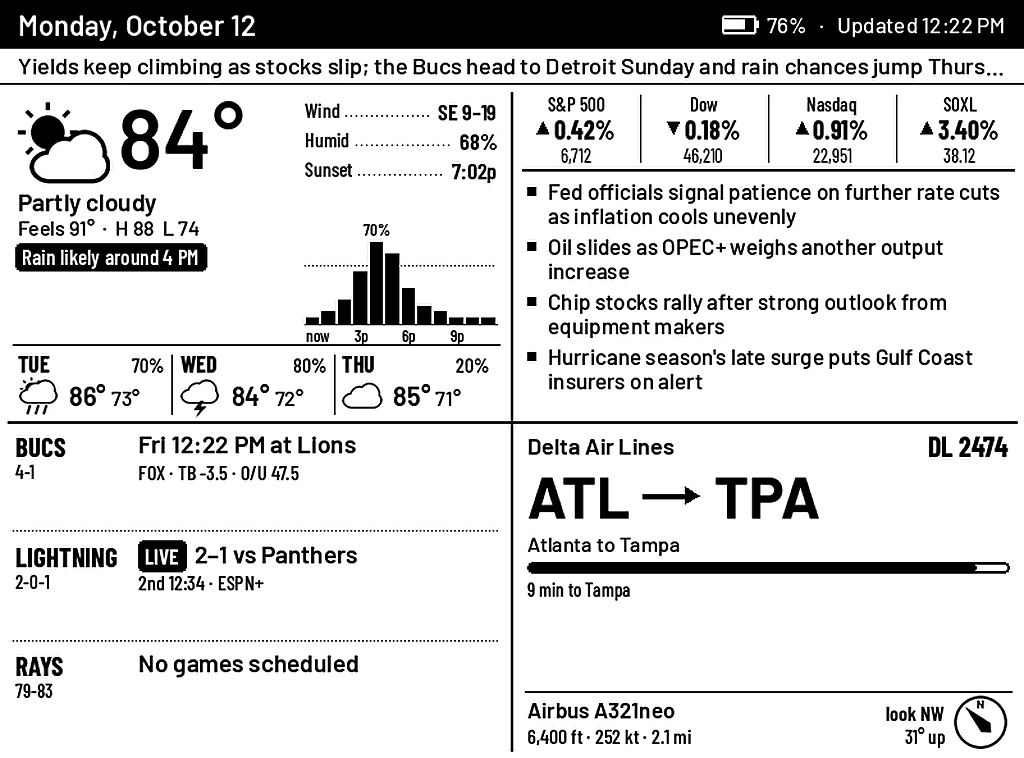
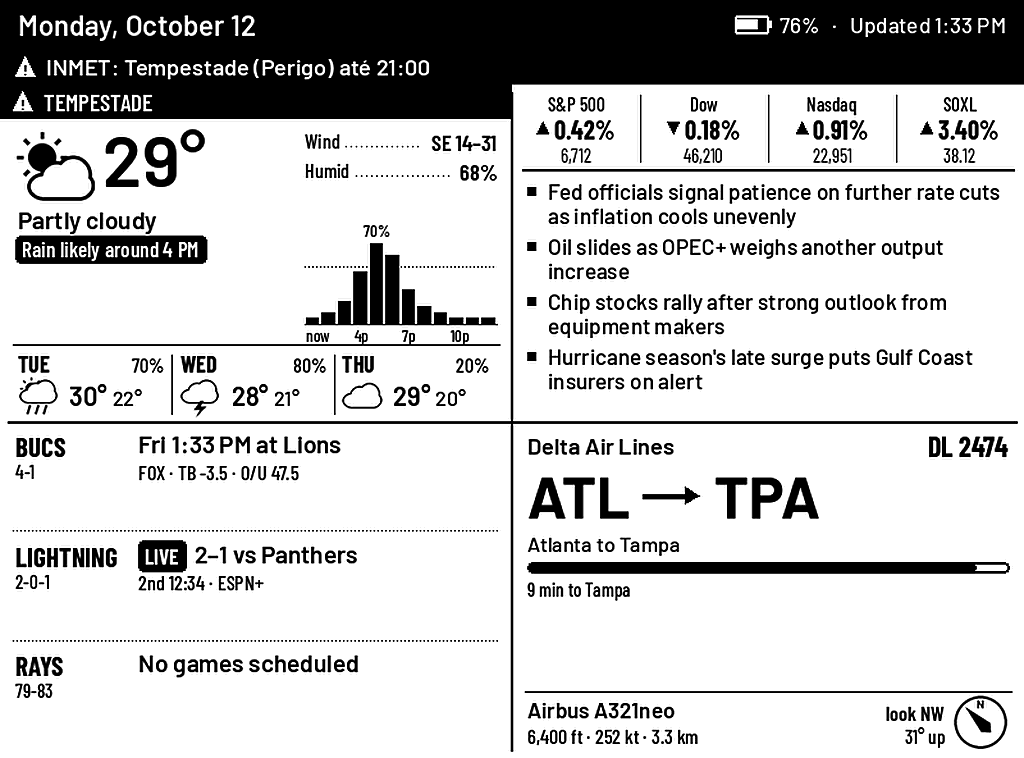
Celsius by default and INMET weather alerts for Brazil
- Units default to °C; metric also switches Open-Meteo's wind to km/h, the
  gust threshold to 13 km/h and the plane distance to km.
- Alerts: new "alerts" setting (auto | inmet | nws | off). auto picks NWS
  inside the US and INMET inside Brazil. The INMET parser reads
  /avisos/ativos ({hoje, futuro}), keeps alerts whose polygon covers the
  configured point (or whose geocodes include the optional IBGE code), drops
  expired ones and future ones more than 6 h out, and maps Grande Perigo /
  Perigo / Perigo Potencial to Extreme / Severe / Moderate.
- TZ defaults to America/Sao_Paulo; NYSE open/closed now uses New York time
  explicitly instead of assuming the server runs on it.
- Changing units or alert settings refetches the weather right away.
- Forecast stays on Open-Meteo: it is worldwide and keyless. Yahoo's
  weather API needs OAuth credentials.

Claude-Session: https://claude.ai/code/session_01GVZJyjXu3HFDda6DCF8SeA

diff --git a/server/web/dashboard.html b/server/web/dashboard.html
@@ -126,11 +126,14 @@ td:first-child{font-weight:600;white-space:nowrap}
       <div class="grid2">
         <label>Label<input name="label"></label>
         <label>City (for the brief)<input name="city"></label>
-        <label>Units<select name="units"><option value="F">°F</option><option value="C">°C</option></select></label>
+        <label>Units<select name="units"><option value="C">°C, km/h</option><option value="F">°F, mph</option></select></label>
+        <label>Weather alerts<select name="alerts"><option value="auto">Auto (by location)</option>
+          <option value="inmet">INMET (Brazil)</option><option value="nws">NWS (US)</option><option value="off">Off</option></select></label>
+        <label>IBGE city code (optional)<input name="alert_geocode" placeholder="3550308"></label>
         <label>Latitude<input name="lat" type="number" step="0.0001"></label>
         <label>Longitude<input name="lon" type="number" step="0.0001"></label>
       </div>
-      <p class="note">Location also moves the plane radar and ISS/launch visibility.</p>
+      <p class="note">Location also moves the plane radar and ISS/launch visibility. Forecast: Open-Meteo (worldwide). Alerts: INMET inside Brazil, NWS inside the US; the IBGE code only matters if an INMET alert comes without a map area.</p>
     </section>
 
     <section class="card">
@@ -311,7 +314,7 @@ function render() {
   const rows = [];
   const src = S.sources;
   const st = (o) => o ? (o.error ? `<span style="color:var(--bad)">${o.error}</span> (last ok ${ago(o.age_s)})` : `ok · ${ago(o.age_s)}`) : '—';
-  rows.push(['Weather', st(src.weather)], ['NWS alerts', st(src.alerts)], ['Quotes', st(src.quotes)]);
+  rows.push(['Weather', st(src.weather)], ['Alerts (' + (S.cfg.alerts || 'auto') + ')', st(src.alerts)], ['Quotes', st(src.quotes)]);
   for (const [k, v] of Object.entries(src.news)) rows.push(['WSJ ' + (S.feeds[k] || k), st(v)]);
   for (const [k, v] of Object.entries(src.sports)) rows.push([S.teams[k] || k, st(v)]);
   rows.push(['Plane feed', st(src.sky)], ['Claude brief', st(src.brief)]);

diff --git a/server/sources.py b/server/sources.py
@@ -109,6 +109,7 @@ class Weather:
 
 
 def _fetch_weather(lat, lon, units="fahrenheit"):
+    # Open-Meteo is global and keyless; metric temperature gets km/h wind
     r = requests.get("https://api.open-meteo.com/v1/forecast", params={
         "latitude": lat, "longitude": lon,
         "current": "temperature_2m,apparent_temperature,weather_code,is_day,relative_humidity_2m,"
@@ -117,7 +118,7 @@ def _fetch_weather(lat, lon, units="fahrenheit"):
                  "sunrise,sunset,uv_index_max",
         "hourly": "temperature_2m,precipitation_probability,weather_code",
         "minutely_15": "precipitation",
-        "temperature_unit": units, "wind_speed_unit": "mph",
+        "temperature_unit": units, "wind_speed_unit": "kmh" if units == "celsius" else "mph",
         "timezone": "auto", "forecast_days": 5, "timeformat": "unixtime",
     }, headers={"User-Agent": UA_BOT}, timeout=10)
     r.raise_for_status()
@@ -157,7 +158,7 @@ def _fetch_weather(lat, lon, units="fahrenheit"):
                    days=days, hourly=hourly, rain_note=rain_note, fetched=time.time())
 
 
-def _fetch_alerts(lat, lon):
+def _fetch_alerts_nws(lat, lon):
     r = requests.get(f"https://api.weather.gov/alerts/active?point={lat:.4f},{lon:.4f}",
                      headers={"User-Agent": UA_BOT + " contact: " + os.environ.get("QUAD_CONTACT", "unset"),
                               "Accept": "application/geo+json"}, timeout=10)
@@ -169,6 +170,136 @@ def _fetch_alerts(lat, lon):
         out.append((p.get("event", ""), p.get("headline", ""), p.get("severity", "")))
     out.sort(key=lambda a: rank.get(a[2], 9))
     return out
+
+
+# INMET (Brazil's met service) publishes its "avisos meteorológicos" as one
+# national list, {"hoje": [...], "futuro": [...]}, each with the area as a
+# polygon. Keyless; INMET only answers Brazilian IPs. The field names aren't
+# documented, so the parser below looks for the likely ones and logs the keys
+# it saw when it can't place an alert.
+INMET_URL = "https://apiprevmet3.inmet.gov.br/avisos/ativos"
+INMET_SEV = {"grande perigo": "Extreme", "perigo": "Severe", "perigo potencial": "Moderate"}
+
+
+def _pick(d, *keys):
+    for k in keys:
+        v = d.get(k)
+        if v not in (None, "", []):
+            return v
+    return None
+
+
+def _rings(g):
+    """Polygon rings ([(lon, lat), ...]) from GeoJSON (string, geometry,
+    Feature, FeatureCollection) or a bare list of [lon, lat] pairs."""
+    if isinstance(g, str):
+        try:
+            g = json.loads(g)
+        except ValueError:
+            return []
+    if isinstance(g, list):
+        if g and isinstance(g[0], (list, tuple)) and len(g[0]) == 2 and isinstance(g[0][0], (int, float)):
+            return [[(float(a), float(b)) for a, b in g]]
+        return [r for x in g for r in _rings(x)]
+    if not isinstance(g, dict):
+        return []
+    t = g.get("type")
+    if t == "FeatureCollection":
+        return [r for f in g.get("features", []) for r in _rings(f)]
+    if t == "Feature":
+        return _rings(g.get("geometry"))
+    c = g.get("coordinates")
+    if t == "Polygon" and c:
+        return [[(float(p[0]), float(p[1])) for p in c[0]]]
+    if t == "MultiPolygon" and c:
+        return [[(float(p[0]), float(p[1])) for p in poly[0]] for poly in c]
+    return []
+
+
+def _inside(lat, lon, ring):
+    """Ray casting; ring is [(lon, lat), ...]."""
+    hit = False
+    j = len(ring) - 1
+    for i in range(len(ring)):
+        xi, yi = ring[i]
+        xj, yj = ring[j]
+        if (yi > lat) != (yj > lat) and lon < (xj - xi) * (lat - yi) / (yj - yi) + xi:
+            hit = not hit
+        j = i
+    return hit
+
+
+def _inmet_when(a, which):
+    """'fim'/'inicio' as epoch, from either a full timestamp or data_* + hora_*."""
+    v = _pick(a, which, f"data_{which}", f"{which}_data")
+    if not v:
+        return None
+    v = str(v).strip()
+    h = _pick(a, f"hora_{which}", f"{which}_hora")
+    if h and len(v) <= 10:
+        v = f"{v} {h}"
+    for fmt in ("%Y-%m-%dT%H:%M:%S", "%Y-%m-%d %H:%M:%S", "%Y-%m-%d %H:%M", "%Y-%m-%dT%H:%M", "%Y-%m-%d",
+                "%d/%m/%Y %H:%M", "%d/%m/%Y"):
+        try:
+            return time.mktime(time.strptime(v[:19].replace(".000", ""), fmt))
+        except ValueError:
+            continue
+    return None
+
+
+_inmet_logged = False
+
+
+def _parse_inmet(d, lat, lon, geocode="", now=None):
+    global _inmet_logged
+    now = now or time.time()
+    items = (d.get("hoje") or []) + (d.get("futuro") or []) if isinstance(d, dict) else (d or [])
+    out = []
+    for a in items:
+        if not isinstance(a, dict):
+            continue
+        rings = _rings(_pick(a, "poligono", "polygon", "geometry", "geojson", "area") or [])
+        codes = str(_pick(a, "geocodes", "geocode", "municipios", "cod_ibge") or "")
+        here = any(_inside(lat, lon, r) for r in rings) or (bool(geocode) and str(geocode) in codes)
+        if not here:
+            if not rings and not codes and not _inmet_logged:
+                _inmet_logged = True
+                print(f"[inmet] can't place an alert; keys: {sorted(a)}", flush=True)
+            continue
+        start, end = _inmet_when(a, "inicio"), _inmet_when(a, "fim")
+        if end and end < now:
+            continue
+        if start and start - now > 6 * 3600:      # "futuro": only once it's close
+            continue
+        sev_pt = str(_pick(a, "severidade", "severity", "nivel") or "").strip()
+        event = str(_pick(a, "descricao", "evento", "event", "titulo") or "Aviso").strip()
+        hm24 = lambda t: time.strftime("%H:%M", time.localtime(t))   # pt-BR text, 24h clock
+        until = f" até {hm24(end)}" if end else ""
+        soon = f" a partir de {hm24(start)}" if start and start > now else ""
+        out.append((event, f"INMET: {event} ({sev_pt or 'aviso'}){soon}{until}",
+                    INMET_SEV.get(sev_pt.lower(), "Moderate")))
+    rank = {"Extreme": 0, "Severe": 1, "Moderate": 2, "Minor": 3}
+    out.sort(key=lambda a: rank.get(a[2], 9))
+    return out
+
+
+def _fetch_alerts_inmet(lat, lon, geocode=""):
+    r = requests.get(INMET_URL, headers={"User-Agent": UA_BOT, "Accept": "application/json"}, timeout=15)
+    r.raise_for_status()
+    return _parse_inmet(r.json(), lat, lon, geocode)
+
+
+def alert_source(cfg):
+    """auto: NWS inside the US, INMET inside Brazil, nothing elsewhere."""
+    src = cfg.get("alerts", "auto")
+    if src != "auto":
+        return src
+    lat, lon = cfg["lat"], cfg["lon"]
+    if 18 <= lat <= 72 and -170 <= lon <= -65:
+        return "nws"
+    if -34 <= lat <= 5.5 and -74 <= lon <= -34:
+        return "inmet"
+    return "off"
 
 
 def _hm(epoch):
@@ -189,8 +320,14 @@ def weather(cfg, force=False) -> Weather | None:
     def fetch_weather():
         return _fetch_weather(lat, lon, units)
 
+    src = alert_source(cfg)
+
     def fetch_alerts():
-        return _fetch_alerts(lat, lon)
+        if src == "nws":
+            return _fetch_alerts_nws(lat, lon)
+        if src == "inmet":
+            return _fetch_alerts_inmet(lat, lon, cfg.get("alert_geocode", ""))
+        return []
 
     w = _weather.get(fetch_weather, force)
     a = _alerts.get(fetch_alerts, force)
@@ -338,7 +475,12 @@ def _fetch_quotes(syms):
 
 
 def _us_market_open(now):
-    t = time.localtime(now)   # TZ is America/New_York (set by app.py)
+    try:      # NYSE hours, whatever the server's own TZ is
+        from datetime import datetime
+        from zoneinfo import ZoneInfo
+        t = datetime.fromtimestamp(now, ZoneInfo("America/New_York")).timetuple()
+    except Exception:
+        t = time.localtime(now)
     mins = t.tm_hour * 60 + t.tm_min
     return t.tm_wday < 5 and 570 <= mins < 960
 

diff --git a/server/kindle_cases.py b/server/kindle_cases.py
@@ -2,22 +2,23 @@
 python3 kindle_cases.py  ->  kindle_*.png (landscape, as you'd see it) and
 kindle_native_quad.png (rotated, exactly what the Kindle gets)."""
 import os, time
-os.environ.setdefault("TZ", "America/New_York"); time.tzset()
+os.environ.setdefault("TZ", "America/Sao_Paulo"); time.tzset()
 import render as R, sources as S, kindle as K
 
 now = time.time()
-CFG = {"slots": ["weather", "news", "sports", "sky"], "radar_nm": 25, "sports_logos": False, "odds": True,
+CFG = {"units": "C", "slots": ["weather", "news", "sports", "sky"], "radar_nm": 25, "sports_logos": False, "odds": True,
        "odds_style": "spread", "news_pages": 4}
 lt = time.localtime(now)
 day = lambda i: time.strftime("%Y-%m-%d", time.localtime(now + 86400 * i))
-wx = S.Weather(temp=84, feels=91, code=2, is_day=lt.tm_hour in range(7, 19), humidity=68, wind=9, wind_dir=120, gust=19,
+wx = S.Weather(temp=29, feels=33, code=2, is_day=lt.tm_hour in range(7, 19), humidity=68, wind=14, wind_dir=120, gust=31,
                days=[S.Day(day(i), hi, lo, code, pop, "7:24 AM", "7:02 PM", uv)
-                     for i, (hi, lo, code, pop, uv) in enumerate([(88, 74, 2, 40, 8), (86, 73, 80, 70, 7),
-                                                                   (84, 72, 95, 80, 5), (85, 71, 3, 20, 8),
-                                                                   (87, 72, 0, 10, 9)])],
-               hourly=[(now + 3600 * i, 84 - abs(i - 4) * 0.8, [5, 10, 20, 45, 70, 60, 30, 15, 10, 5, 5, 5][i % 12], 2)
+                     for i, (hi, lo, code, pop, uv) in enumerate([(31, 23, 2, 40, 8), (30, 22, 80, 70, 7),
+                                                                   (28, 21, 95, 80, 5), (29, 20, 3, 20, 8),
+                                                                   (31, 21, 0, 10, 9)])],
+               hourly=[(now + 3600 * i, 29 - abs(i - 4) * 0.5, [5, 10, 20, 45, 70, 60, 30, 15, 10, 5, 5, 5][i % 12], 2)
                        for i in range(24)],
-               rain_note="Rain likely around 4 PM")
+               rain_note="Rain likely around 4 PM",
+               alerts=[("Tempestade", "INMET: Tempestade (Perigo) até 21:00", "Severe")])
 heads = [S.Headline(t, "world", now - 600 * i) for i, t in enumerate([
     "Fed officials signal patience on further rate cuts as inflation cools unevenly",
     "Oil slides as OPEC+ weighs another output increase",

diff --git a/server/app.py b/server/app.py
@@ -24,7 +24,7 @@ import traceback
 import urllib.parse
 from http.server import BaseHTTPRequestHandler, ThreadingHTTPServer
 
-os.environ.setdefault("TZ", "America/New_York")
+os.environ.setdefault("TZ", "America/Sao_Paulo")
 if hasattr(time, "tzset"):
     time.tzset()
 
@@ -53,7 +53,9 @@ DEFAULTS = {
     "label": "Home",
     "city": "Tampa",             # named in the Claude brief's prompt
     "lat": 27.9506, "lon": -82.4572,
-    "units": "F",
+    "units": "C",                # C = °C and km/h; F = °F and mph
+    "alerts": "auto",            # auto (NWS in the US, INMET in Brazil) | nws | inmet | off
+    "alert_geocode": "",         # optional IBGE city code, for INMET alerts without a polygon
     "slots": ["weather", "news", "sports", "sky"],
     "interval_min": 10,          # the main cadence: every panel refreshes on this beat
     "sky_min": 10,               # plane panel can run faster (partial refresh, no flash)
@@ -664,6 +666,7 @@ class H(BaseHTTPRequestHandler):
             raise ValueError("slots must use each panel exactly once")
         moved = (new["lat"], new["lon"], new["radar_nm"], new["iss"], new["launch"]) != \
                 (cfg["lat"], cfg["lon"], cfg["radar_nm"], cfg["iss"], cfg["launch"])
+        rewx = moved or any(new[k] != cfg[k] for k in ("units", "alerts", "alert_geocode"))
         cfg.clear()
         cfg.update(new)
         S.TEAMS.update({k: tuple(v) for k, v in cfg.get("custom_teams", {}).items()})
@@ -673,7 +676,7 @@ class H(BaseHTTPRequestHandler):
         # data-shaping changes need a refetch; purely visual ones just a redraw
         for name in ("weather", "news", "sports", "sky"):
             try:
-                board.take(name, force=name in ("weather",) and moved)
+                board.take(name, force=name in ("weather",) and rewx)
             except Exception:
                 traceback.print_exc()
         with board.cond:

diff --git a/server/render.py b/server/render.py
@@ -391,7 +391,7 @@ def panel_weather(ctx: Ctx, size):
     rx = 238
     facts = []                         # (today's rain % is the chart below)
     facts.append(("Wind", f"{WIND[int((wx.wind_dir + 22.5) // 45) % 8]} {wx.wind:.0f}"
-                  + (f"–{wx.gust:.0f}" if wx.gust - wx.wind >= 8 else "")))
+                  + (f"–{wx.gust:.0f}" if wx.gust - wx.wind >= (13 if ctx.cfg.get("units") == "C" else 8) else "")))
     facts.append(("Humid", f"{wx.humidity}%"))
     if today and today.sunset:
         # after sunset, show tomorrow's sunrise instead
@@ -710,7 +710,8 @@ def panel_sky(ctx: Ctx, size):
     d.line((10, by - 4, w - 10, by - 4), fill=INK, width=1)
     alt = f"{s.alt_ft:,} ft" if s.alt_ft else "ground"
     text(d, (12, by), ellipsize(d, s.aircraft or "Aircraft", F("sb", 17), w - 80), F("sb", 17))
-    text(d, (12, by + 21), f"{alt} · {s.speed_kt:.0f} kt · {s.dist_nm * 1.15078:.1f} mi", F("cm", 16))
+    dist = f"{s.dist_nm * 1.852:.1f} km" if ctx.cfg.get("units") == "C" else f"{s.dist_nm * 1.15078:.1f} mi"
+    text(d, (12, by + 21), f"{alt} · {s.speed_kt:.0f} kt · {dist}", F("cm", 16))
     from adsb import compass
     compass_arrow(c, w - 34, by + 20, 21, s.bearing)
     look = f"look {compass(s.bearing)}"

diff --git a/README.md b/README.md
@@ -15,7 +15,7 @@ An e-paper kitchen dashboard for the Seeed reTerminal E1001. Four corners of you
 
 | Corner | Shows |
 |---|---|
-| **Weather** | current conditions, rain chance for the next few hours, 3-day forecast, 15-minute rain nowcast, NWS alerts |
+| **Weather** | current conditions, rain chance for the next few hours, 3-day forecast, 15-minute rain nowcast, official alerts (INMET in Brazil, NWS in the US) |
 | **News & markets** | index and ticker moves, rotating WSJ headlines |
 | **Your teams** | live score, last result or next game for any ESPN team, with TV and the betting line |
 | **Plane overhead** | airline, route, aircraft, altitude and which way to look, from live ADS-B. An ISS pass or a visible rocket launch takes this corner over |
@@ -50,7 +50,7 @@ A jailbroken first-gen **Kindle Paperwhite** works as a second screen: the serve
 
 ## Data sources
 
-All keyless: Open-Meteo (forecast + nowcast), api.weather.gov (alerts, US only), WSJ RSS, Yahoo Finance spark, ESPN's site API, adsb.lol + adsbdb, CelesTrak + Launch Library 2. The one-line brief uses the [`claude`](https://docs.claude.com/en/docs/claude-code) CLI if it's installed and logged in. Turn `llm_brief` off otherwise.
+All keyless: Open-Meteo (forecast + nowcast, worldwide), INMET (alerts, Brazil) or api.weather.gov (alerts, US), WSJ RSS, Yahoo Finance spark, ESPN's site API, adsb.lol + adsbdb, CelesTrak + Launch Library 2. The one-line brief uses the [`claude`](https://docs.claude.com/en/docs/claude-code) CLI if it's installed and logged in. Turn `llm_brief` off otherwise.
 
 ## Setup
 
@@ -100,7 +100,8 @@ On first boot the board opens a Wi-Fi setup portal named `QuadBoard-XXXX`. Join 
 
 ## Notes
 
-- Times use the server's `TZ` (defaults to `America/New_York`).
+- Times use the server's `TZ` (defaults to `America/Sao_Paulo`). Market hours are always NYSE's.
+- Units default to °C and km/h; switch to °F / mph on the dashboard.
 - The notes feature reads a separate "note box" project's database and is off unless `QUAD_NOTES_DB` is set.
 - Team logos and airline logos are downloaded at runtime and cached in `server/cache/`. None are shipped in this repo.
 
